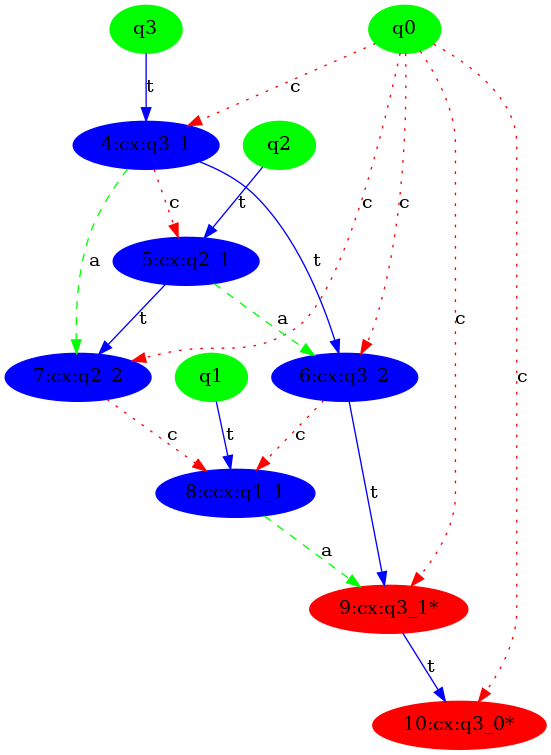
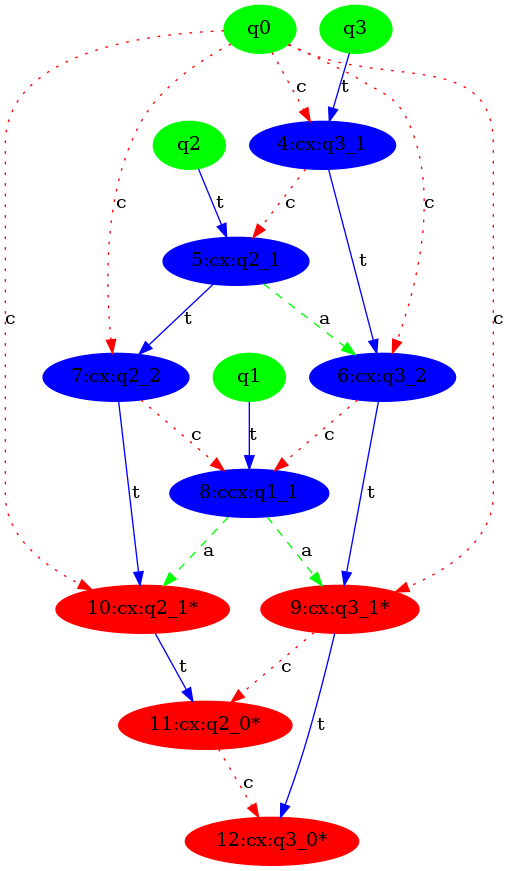
Some bug fixes

diff --git a/helperfunctions/circuitgraphfunctions.py b/helperfunctions/circuitgraphfunctions.py
@@ -71,9 +71,9 @@ def get_computation_graph(circuit: qiskit.circuit.QuantumCircuit, ancilla_start:
         for qubit_index in qubit_indicies:
             circuit_graph.add_edge(qubit_index, opnode_index, CONTROL)        
             
-            controls_adj = circuit_graph.adj(qubit_index)
+            controls_adj = circuit_graph.adj_direction(qubit_index, False)
             try:
-                controls_target_idx = list(map(lambda x: x[0], list(filter(lambda x: x[1] == TARGET and x[0] > qubit_index and not circuit_graph.has_edge(x[0], opnode_index), list(controls_adj.items())))))
+                controls_target_idx = list(map(lambda x: x[0], list(filter(lambda x: x[1] == TARGET and not circuit_graph.has_edge(x[0], opnode_index), list(controls_adj.items())))))
             except IndexError:
                 controls_target_idx = []
 
@@ -81,7 +81,7 @@ def get_computation_graph(circuit: qiskit.circuit.QuantumCircuit, ancilla_start:
                 circuit_graph.add_edge(opnode_index, idx, ANTIDEP)
 
         # Adding AntiDep Edges (Opnode to OTHER controlled nodes)
-        prev_node_adj = circuit_graph.adj(prev_node_index)
+        prev_node_adj = circuit_graph.adj_direction(prev_node_index, False)
         print(prev_node_adj)
         try:
             prev_node_controlled_idx = list(map(lambda x: x[0], list(filter(lambda x: x[1] == CONTROL and not circuit_graph.has_edge(x[0], opnode_index), list(prev_node_adj.items())))))

diff --git a/helperfunctions/uncompfunctions.py b/helperfunctions/uncompfunctions.py
@@ -22,13 +22,13 @@ NON_QFREE = ListConstants.NON_QFREE.value
 
 def get_uncomp_node_index(circuit_graph: rustworkx.PyDiGraph, node_index):
     for node in circuit_graph.nodes():
-        if node.node_type is UNCOMP and node.get_nodenum() == circuit_graph.get_node_data(node_index).get_nodenum:
+        if node.node_type is UNCOMP and node.get_nodenum() == circuit_graph.get_node_data(node_index).get_nodenum():
             return node.get_index()
     return node_index
 
 def get_comp_node_index(circuit_graph: rustworkx.PyDiGraph, node_index):
     for node in circuit_graph.nodes():
-        if node.node_type is COMP and node.get_nodenum() == circuit_graph.get_node_data(node_index).get_nodenum:
+        if node.node_type is COMP and node.get_nodenum() == circuit_graph.get_node_data(node_index).get_nodenum():
             return node.get_index()
     return node_index
 
